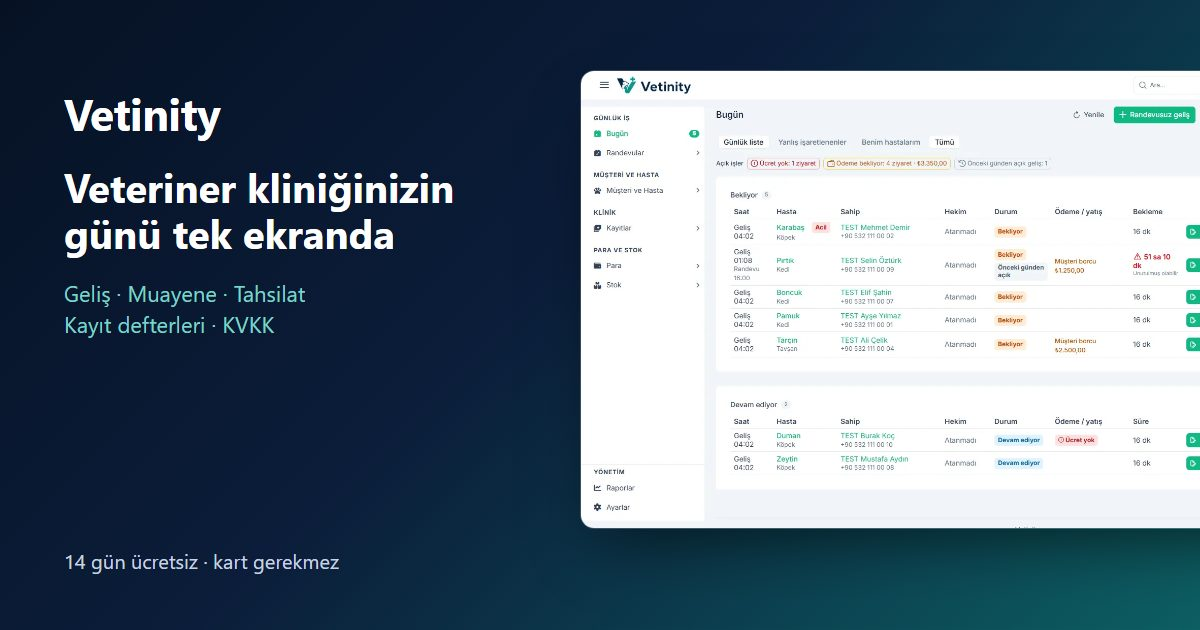
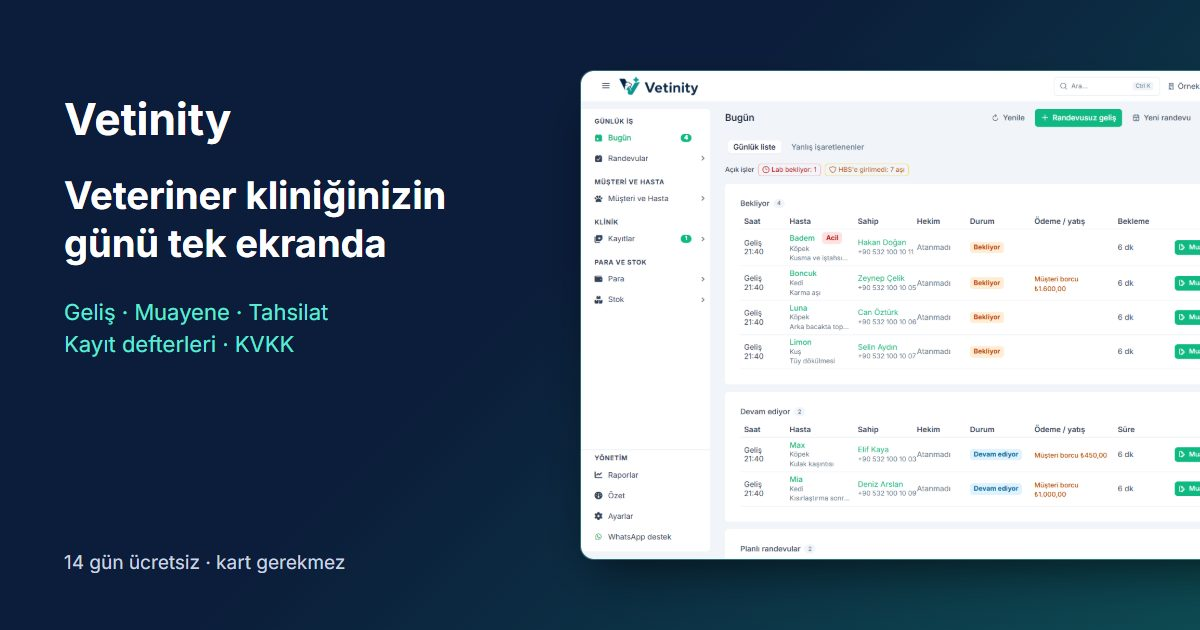
feat(web): WEB-005 ornek klinik verisiyle yeni ekran goruntuleri
- 13 ekran x 2 tema, public/marketing/screens/*.webp (12-82 KB): yerel gelistirme
  ortaminda "Ornek Veteriner Klinigi" sentetik verisi, Kurumsal deneme hesabi.
  Masaustu 1440x900, telefon 390x844 (2x); tarayici arayuzu ve e-posta yok.
- Yenilenen: Bugun, muayene, kesinlestirme, hasta karti, musteri bakiyesi, gun sonu,
  stok, KVKK riza formu. Asi Kayit Defteri yerine dolu Muayene Kayit Defteri
  (kayitDefteri); ornek veride asi stok girisi yok.
- Yeni: otomatik asi sihirbazi, gelismis rapor kirilimlari, klinik web sitesi
  sihirbazi (Ozellikler kart gruplarinda, altyazida kartin adi ve paketi
  PRICING_FEATURE_ROWS'tan), telefonda Bugun (ana sayfa kahramaninda, genis ekranda).
- OG gorseli yeni Bugun ekraniyla; ozellikler metninde "suzulur" yerine "filtrelenir".

diff --git a/src/app/features/public/utils/public-screenshots.utils.ts b/src/app/features/public/utils/public-screenshots.utils.ts
@@ -1,5 +1,6 @@
 /**
- * Tanıtım ekran görüntüleri (WEB-005): panelden, yalnız "TEST"/"ÖRNEK" adlı yerel geliştirme kayıtlarıyla alındı.
+ * Tanıtım ekran görüntüleri (WEB-005): panelden, yerel geliştirme ortamında "Örnek Veteriner Kliniği" sentetik verisiyle
+ * ("ÖRNEK" işaretli; gerçek kişi verisi yok) alındı. Masaüstü 1440×900, telefon 390×844 (2×).
  * Her görüntünün açık ve koyu tema eşi `public/marketing/screens/` altında WebP; `width`/`height` CLS için gerçek piksel.
  */
 
@@ -11,8 +12,12 @@ export type PublicScreenshotKey =
     | 'gunSonu'
     | 'hastaKarti'
     | 'stok'
-    | 'asiDefteri'
-    | 'kvkkFormu';
+    | 'kayitDefteri'
+    | 'kvkkFormu'
+    | 'asiSihirbazi'
+    | 'gelismisRaporlar'
+    | 'klinikSitesi'
+    | 'telefonBugun';
 
 export interface PublicScreenshotDef {
     /** Dosya adı kökü: `<file>-light.webp` ve `<file>-dark.webp`. */
@@ -28,57 +33,81 @@ const SCREENS_DIR = '/marketing/screens';
 export const PUBLIC_SCREENSHOTS: Readonly<Record<PublicScreenshotKey, PublicScreenshotDef>> = {
     bugun: {
         file: 'bugun',
-        width: 1536,
+        width: 1440,
         height: 900,
-        alt: 'Bugün ekranı: bekleyen beş hasta, biri acil işaretli, biri önceki günden açık ve uzun bekleme uyarılı; muayenesi süren iki hasta ve açık işler çipleri'
+        alt: 'Bugün ekranı: bekleyen dört hasta, biri acil işaretli; muayenesi süren iki hasta, müşteri borcu ve açık işler çipleri'
     },
     muayene: {
         file: 'muayene',
-        width: 1536,
+        width: 1440,
         height: 900,
-        alt: 'Muayene kaydı: şikâyet, anamnez, klinik bulgular, kilo, ateş, nabız ve solunum; sağda kesinleştirme kontrol listesi'
+        alt: 'Muayene formu: solda hasta bağlamı (son kilo, aktif tedavi, son muayeneler); sağda şikâyet, anamnez, klinik bulgular, kilo, ateş, nabız ve solunum'
     },
     kesinlestirme: {
         file: 'kesinlestirme',
-        width: 940,
-        height: 560,
-        alt: 'Taslak muayene kaydı ve kesinleştirme kontrolü: tanı ve plan girildi, bağlı işlem uyarısı, Kesinleştir düğmesi'
+        width: 1131,
+        height: 700,
+        alt: 'Taslak muayene kaydı: şikâyet, anamnez, bulgular, vital değerler, tanı ve plan; yanda kesinleştirme kontrol listesi ve Kesinleştir düğmesi'
     },
     musteriBakiye: {
         file: 'musteri-bakiye',
-        width: 1238,
-        height: 1050,
-        alt: 'Müşteri kartı: açık borç, ücret bekleyen işlem, hastaları, yapılacaklar ve kartla alınmış son ödeme'
+        width: 1440,
+        height: 900,
+        alt: 'Müşteri kartı: açık borç, KVKK rıza ve portal durumu, hastaları, yapılacaklarda açık borç, son muayeneler, son randevular ve ödeme özeti'
     },
     gunSonu: {
         file: 'gun-sonu',
-        width: 1238,
-        height: 1088,
-        alt: 'Gün sonu raporu: brüt ve net ücret, ödeme türüne ve güne göre tahsilat, açık işler'
+        width: 1440,
+        height: 900,
+        alt: 'Gün sonu raporu: bir haftalık aralıkta ödeme türüne ve güne göre tahsilat, iptal ve net tutar; açık işler'
     },
     hastaKarti: {
         file: 'hasta-karti',
-        width: 1238,
-        height: 1050,
-        alt: 'Hasta kartı: sahip ve açık borç, son geliş, sonraki randevu, klinik özet ve gecikmiş aşı uyarılı yapılacaklar listesi'
+        width: 1440,
+        height: 900,
+        alt: 'Hasta kartı: tür, cins, yaş, kilo ve çip numarası; açık borç, klinik özet (son kilo, vital, son tanı, aktif tedavi, aşılar), yapılacaklar ve zaman çizelgesi'
     },
     stok: {
         file: 'stok',
-        width: 1238,
-        height: 650,
+        width: 1440,
+        height: 900,
         alt: 'Stok durumu: ürün başına kullanılabilir ve süresi geçmiş miktar, minimum seviye ve durum'
     },
-    asiDefteri: {
-        file: 'asi-defteri',
-        width: 1238,
-        height: 750,
-        alt: 'Aşı Kayıt Defteri: tarih aralığı süzgeci, Excel, CSV ve yazdırma; seri numarası, son kullanma tarihi ve firmayla aşı girişleri'
+    kayitDefteri: {
+        file: 'kayit-defteri',
+        width: 1440,
+        height: 900,
+        alt: 'Hayvan Muayene Kayıt Defteri: tarih aralığı filtresi, PDF, Excel, CSV ve yazdırma; sıra numarası, hasta sahibi, hasta, şikâyet, teşhis ve tedavi'
     },
     kvkkFormu: {
         file: 'kvkk-formu',
-        width: 671,
-        height: 365,
+        width: 710,
+        height: 370,
         alt: 'KVKK açık rıza formu yazdırma görünümü: kabul ve ret seçenekleri, veri sahibinin adı, tarih ve imza alanı'
+    },
+    asiSihirbazi: {
+        file: 'asi-sihirbazi',
+        width: 1440,
+        height: 900,
+        alt: 'Aşı planı önerisi: kliniğin aşı takviminden yavru köpek için hesaplanan dozlar ve tarihleri; hekim seçip onaylar'
+    },
+    gelismisRaporlar: {
+        file: 'gelismis-raporlar',
+        width: 1131,
+        height: 501,
+        alt: 'Gelişmiş rapor kırılımları: hekim, hizmet ve ürün, en çok ciro yapan kalemler ve hayvan türü; her biri önceki dönemle fark'
+    },
+    klinikSitesi: {
+        file: 'klinik-sitesi',
+        width: 1440,
+        height: 900,
+        alt: 'Klinik web sitesi sihirbazı: yedi adım; solda klinik bilgileri ve çalışma saatleri, sağda sitenin önizlemesi'
+    },
+    telefonBugun: {
+        file: 'telefon-bugun',
+        width: 780,
+        height: 1688,
+        alt: 'Telefonda Bugün ekranı: hızlı eylem düğmeleri, açık işler ve kart görünümünde acil işaretli bekleyen hasta'
     }
 };
 

diff --git a/src/app/features/public/utils/public-features-content.utils.ts b/src/app/features/public/utils/public-features-content.utils.ts
@@ -1,7 +1,8 @@
 /**
  * Özellikler sayfası (`/ozellikler`, tasarım belgesi 5.2): bir ziyaretin yolculuğu, modül listesi değil.
- * Her bölüm = bir problem + bir ekran (gerçek ekran görüntüsü, `public-screenshots.utils.ts`). Ekran görüntüsü olmayan işler
- * sonda kısa kart gruplarıdır; kartın paketi özellik tablosundan okunur (`PRICING_FEATURE_ROWS`, tek kaynak).
+ * Her bölüm = bir problem + bir ekran (gerçek ekran görüntüsü, `public-screenshots.utils.ts`). Gün akışının dışındaki işler
+ * sonda kısa kart gruplarıdır; grup, kartlarından birinin ekranını gösterebilir. Kartın paketi özellik tablosundan okunur
+ * (`PRICING_FEATURE_ROWS`, tek kaynak).
  */
 
 import { planAvailabilityText, type PricingFeatureKey } from '@/app/entities/subscription/utils/pricing-plan.utils';
@@ -44,7 +45,7 @@ export const PUBLIC_FEATURE_SECTIONS: readonly PublicFeatureSectionDef[] = [
         title: 'Hasta kartı ve zaman çizelgesi',
         lead: 'Bir hastanın tüm geçmişi tek sayfada: muayeneler, aşılar, reçeteler, yatışlar, gelişler.',
         bullets: [
-            'Zaman çizelgesi tarih aralığına göre süzülür',
+            'Zaman çizelgesi tarih aralığına göre filtrelenir',
             'Kilo geçmişi muayene vitallerinden kendiliğinden oluşur',
             'Mikroçip, telefon ya da adla arama; Türkçe harf fark etmez'
         ],
@@ -99,6 +100,8 @@ export interface PublicFeatureGroupDef {
     readonly title: string;
     readonly lead: string;
     readonly cards: readonly PublicFeatureCardDef[];
+    /** Gruptaki bir kartın ekranı; altyazıdaki ad ve paket o karttan (`planRow`). */
+    readonly shot?: { readonly screenshot: PublicScreenshotKey; readonly planRow: PricingFeatureKey };
 }
 
 /** Kart grupları: gün akışının dışındaki işler. Abartı ve üstünlük sözü yok (ADR-034 karar 3, ADR-047 K6). */
@@ -145,7 +148,8 @@ export const PUBLIC_FEATURE_GROUPS: readonly PublicFeatureGroupDef[] = [
                 icon: 'pi pi-list',
                 planRow: 'waitlist'
             }
-        ]
+        ],
+        shot: { screenshot: 'klinikSitesi', planRow: 'clinicSite' }
     },
     {
         id: 'klinik-ici',
@@ -170,7 +174,8 @@ export const PUBLIC_FEATURE_GROUPS: readonly PublicFeatureGroupDef[] = [
                 icon: 'pi pi-wallet',
                 planRow: 'cashManagement'
             }
-        ]
+        ],
+        shot: { screenshot: 'asiSihirbazi', planRow: 'vaccinationWizard' }
     },
     {
         id: 'isletme',
@@ -201,11 +206,19 @@ export const PUBLIC_FEATURE_GROUPS: readonly PublicFeatureGroupDef[] = [
                 icon: 'pi pi-download',
                 planRow: 'dataExport'
             }
-        ]
+        ],
+        shot: { screenshot: 'gelismisRaporlar', planRow: 'advancedReports' }
     }
 ];
 
 /** Kartın paket etiketi ("Tüm paketlerde", "Profesyonel ve Kurumsal paketlerinde"). */
 export function publicFeatureCardPlans(card: PublicFeatureCardDef): string {
     return planAvailabilityText(card.planRow);
+}
+
+/** Grup ekranının altyazısı: gösterdiği kartın adı ve paketi ("Otomatik aşı sihirbazı · Profesyonel ve Kurumsal paketlerinde"). */
+export function publicFeatureGroupShotCaption(group: PublicFeatureGroupDef): string {
+    const card = group.cards.find((c) => c.planRow === group.shot?.planRow);
+
+    return card ? `${card.title} · ${publicFeatureCardPlans(card)}` : '';
 }

diff --git a/src/app/pages/public/public-pages.spec.ts b/src/app/pages/public/public-pages.spec.ts
@@ -117,23 +117,36 @@ describe('Tanıtım sayfaları (PublicLayout)', () => {
         expect(TestBed.inject(Router).url).toBe(PUBLIC_PATHS.packages);
     });
 
-    it('özellikler: altı bölüm, her birinde gerçek ekran görüntüsü (alt metni, boyut, tembel yükleme)', async () => {
+    it('özellikler: altı bölüm ve ekranlı kart grupları, her birinde gerçek ekran görüntüsü (alt metni, boyut, tembel yükleme)', async () => {
         await harness.navigateByUrl(PUBLIC_PATHS.features);
         harness.detectChanges();
 
         expect(texts('section[id] h2')).toEqual([...PUBLIC_FEATURE_SECTIONS, ...PUBLIC_FEATURE_GROUPS].map((s) => s.title));
+        const shots = [...PUBLIC_FEATURE_SECTIONS.map((s) => s.screenshot), ...PUBLIC_FEATURE_GROUPS.flatMap((g) => (g.shot ? [g.shot.screenshot] : []))];
         const images = Array.from(root().querySelectorAll<HTMLImageElement>('figure.public-shot img.public-shot-img--light'));
 
-        expect(images.map((img) => img.alt)).toEqual(PUBLIC_FEATURE_SECTIONS.map((s) => PUBLIC_SCREENSHOTS[s.screenshot].alt));
+        expect(shots.length).toBeGreaterThan(PUBLIC_FEATURE_SECTIONS.length);
+        expect(images.map((img) => img.alt)).toEqual(shots.map((key) => PUBLIC_SCREENSHOTS[key].alt));
         images.forEach((img, i) => {
-            const def = PUBLIC_SCREENSHOTS[PUBLIC_FEATURE_SECTIONS[i].screenshot];
+            const def = PUBLIC_SCREENSHOTS[shots[i]];
 
             expect(img.getAttribute('src')).toBe(`/marketing/screens/${def.file}-light.webp`);
             expect(img.getAttribute('width')).toBe(String(def.width));
             expect(img.getAttribute('height')).toBe(String(def.height));
             expect(img.getAttribute('loading')).toBe('lazy');
         });
-        expect(root().querySelectorAll('figure.public-shot img.public-shot-img--dark').length).toBe(PUBLIC_FEATURE_SECTIONS.length);
+        expect(root().querySelectorAll('figure.public-shot img.public-shot-img--dark').length).toBe(shots.length);
+    });
+
+    it('özellikler: grup ekranının altyazısı gösterdiği kartın adı ve paketi, özellik tablosundan', async () => {
+        await harness.navigateByUrl(PUBLIC_PATHS.features);
+        harness.detectChanges();
+
+        const caption = (id: string) => root().querySelector(`section#${id} figcaption`)?.textContent?.trim();
+
+        expect(caption('klinik-ici')).toBe('Otomatik aşı sihirbazı · Profesyonel ve Kurumsal paketlerinde');
+        expect(caption('hasta-sahibi')).toBe('Klinik web sitesi · Tüm paketlerde');
+        expect(caption('isletme')).toBe('Gelişmiş raporlar · Profesyonel ve Kurumsal paketlerinde');
     });
 
     it('özellikler: bölüm dizini aynı sayfanın bölümüne gider, ana sayfaya atmaz', async () => {
@@ -362,6 +375,10 @@ describe('Ana sayfa (PublicHomePage)', () => {
 
         expect(shot?.alt).toBe(PUBLIC_SCREENSHOTS.bugun.alt);
         expect(shot?.getAttribute('loading')).toBe('eager');
+        const phone = hero.querySelector<HTMLImageElement>('[data-hero-phone] img.public-shot-img--light');
+
+        expect(phone?.alt).toBe(PUBLIC_SCREENSHOTS.telefonBugun.alt);
+        expect(phone?.getAttribute('loading')).toBe('lazy');
     });
 
     it('kime göre: üç kart, hastane yok', () => {

diff --git a/src/app/pages/public/public-features-page.component.ts b/src/app/pages/public/public-features-page.component.ts
@@ -2,15 +2,16 @@ import { DOCUMENT } from '@angular/common';
 import { Component, inject, OnInit, ChangeDetectionStrategy } from '@angular/core';
 import { Meta, Title } from '@angular/platform-browser';
 import { RouterLink } from '@angular/router';
-import { PUBLIC_FEATURE_GROUPS, PUBLIC_FEATURE_SECTIONS, publicFeatureCardPlans } from '@/app/features/public/utils/public-features-content.utils';
+import { PUBLIC_FEATURE_GROUPS, PUBLIC_FEATURE_SECTIONS, publicFeatureCardPlans, publicFeatureGroupShotCaption } from '@/app/features/public/utils/public-features-content.utils';
 import { PUBLIC_FEATURES_PAGE_META, setPublicPageMeta } from '@/app/features/public/utils/public-seo.utils';
 import { PublicCtaComponent } from './components/public-cta.component';
 import { PublicPageHeaderComponent } from './components/public-page-header.component';
 import { PublicScreenshotComponent } from './components/public-screenshot.component';
 
 /**
- * Özellikler (tasarım belgesi 5.2): 6 bölüm, metin + ekran dönüşümlü; ardından ekran görüntüsü olmayan işler kart gruplarında
- * (kartta paket etiketi). Masaüstünde yapışkan bölüm dizini ikisini de listeler.
+ * Özellikler (tasarım belgesi 5.2): 6 bölüm, metin + ekran dönüşümlü; ardından gün akışı dışındaki işler kart gruplarında
+ * (kartta paket etiketi; grubun ekranı varsa kartların altında, altyazıda kartın adı ve paketi). Masaüstünde yapışkan bölüm
+ * dizini ikisini de listeler.
  */
 @Component({
     selector: 'app-public-features-page',
@@ -72,6 +73,11 @@ import { PublicScreenshotComponent } from './components/public-screenshot.compon
                                 </article>
                             }
                         </div>
+                        @if (group.shot; as shot) {
+                            <div class="mt-8">
+                                <app-public-screenshot [shot]="shot.screenshot" [caption]="shotCaptionOf(group)" />
+                            </div>
+                        }
                     </section>
                 }
             </div>
@@ -89,6 +95,7 @@ export class PublicFeaturesPageComponent implements OnInit {
     readonly groups = PUBLIC_FEATURE_GROUPS;
     readonly index = [...PUBLIC_FEATURE_SECTIONS, ...PUBLIC_FEATURE_GROUPS].map(({ id, title }) => ({ id, title }));
     readonly plansOf = publicFeatureCardPlans;
+    readonly shotCaptionOf = publicFeatureGroupShotCaption;
 
     ngOnInit(): void {
         setPublicPageMeta(this.title, this.meta, PUBLIC_FEATURES_PAGE_META, this.document);

diff --git a/src/app/pages/public/public-home-page.component.ts b/src/app/pages/public/public-home-page.component.ts
@@ -53,8 +53,12 @@ const HOME_ORGANIZATION_JSON_LD_ID = 'home-organization';
                     </div>
                     <p class="m-0 mt-4 text-sm public-on-brand-subtle">{{ trialLine }}</p>
                 </div>
-                <div class="lg:translate-y-12">
+                <div class="relative lg:translate-y-12">
                     <app-public-screenshot shot="bugun" [eager]="true" />
+                    <!-- Telefonda aynı ekran: yalnız geniş ekranda, masaüstü görüntüsünün sol alt köşesine biner -->
+                    <div class="absolute -bottom-10 -left-6 hidden w-[19%] lg:block" data-hero-phone>
+                        <app-public-screenshot shot="telefonBugun" />
+                    </div>
                 </div>
             </div>
         </section>
@@ -122,7 +126,7 @@ const HOME_ORGANIZATION_JSON_LD_ID = 'home-organization';
                         </ul>
                         <p class="m-0 mt-3 text-sm text-surface-600 dark:text-surface-300">Yazdırın, Excel'e alın.</p>
                         <div class="mt-5">
-                            <app-public-screenshot shot="asiDefteri" />
+                            <app-public-screenshot shot="kayitDefteri" />
                         </div>
                     </div>
                     <div>

diff --git a/src/app/pages/public/components/public-screenshot.component.ts b/src/app/pages/public/components/public-screenshot.component.ts
@@ -4,6 +4,7 @@ import { PUBLIC_SCREENSHOTS, publicScreenshotSrc, type PublicScreenshotKey } fro
 /**
  * Gerçek ürün ekran görüntüsü (WEB-005): ince çerçeve, 16 px köşe, tek gölge (tasarım belgesi bölüm 3).
  * Açık ve koyu tema görselleri ayrı; yalnız etkin temanınki görünür ve tembel yüklenir. `width`/`height` CLS için.
+ * Altyazı isteğe bağlı (ör. ekranın hangi pakette olduğu); çerçevenin altında ince bir şerit.
  */
 @Component({
     selector: 'app-public-screenshot',
@@ -30,6 +31,9 @@ import { PUBLIC_SCREENSHOTS, publicScreenshotSrc, type PublicScreenshotKey } fro
                 loading="lazy"
                 decoding="async"
             />
+            @if (caption()) {
+                <figcaption class="public-shot-caption">{{ caption() }}</figcaption>
+            }
         </figure>
     `
 })
@@ -37,6 +41,7 @@ export class PublicScreenshotComponent {
     readonly shot = input.required<PublicScreenshotKey>();
     /** İlk ekrandaki (kahraman) görsel: tembel yükleme yok, yüksek öncelik. */
     readonly eager = input<boolean>(false);
+    readonly caption = input<string>('');
 
     readonly def = computed(() => PUBLIC_SCREENSHOTS[this.shot()]);
     readonly lightSrc = computed(() => publicScreenshotSrc(this.def(), 'light'));

diff --git a/src/app/features/public/styles/public-page-theme.scss b/src/app/features/public/styles/public-page-theme.scss
@@ -335,6 +335,17 @@ html.public-site-root {
     display: block;
 }
 
+.public-page .public-shot-caption {
+    padding: 0.75rem 1rem;
+    border-top: 1px solid var(--public-border);
+    font-size: 0.875rem;
+    color: var(--p-surface-700);
+}
+
+.app-dark .public-page .public-shot-caption {
+    color: var(--p-surface-200);
+}
+
 /* Düğmeler: birincil lacivert zemin + beyaz metin; ikincil beyaz zemin + lacivert çerçeve (teal üstünde beyaz metin yok) */
 .public-page .public-btn {
     display: inline-flex;

diff --git a/src/app/pages/public/public-registers-page.component.ts b/src/app/pages/public/public-registers-page.component.ts
@@ -53,7 +53,7 @@ import { PublicScreenshotComponent } from './components/public-screenshot.compon
                             </tbody>
                         </table>
                     </div>
-                    <app-public-screenshot shot="asiDefteri" />
+                    <app-public-screenshot shot="kayitDefteri" />
                 </div>
                 <p class="public-note m-0 mt-6">{{ registersNote }}</p>
             </section>
